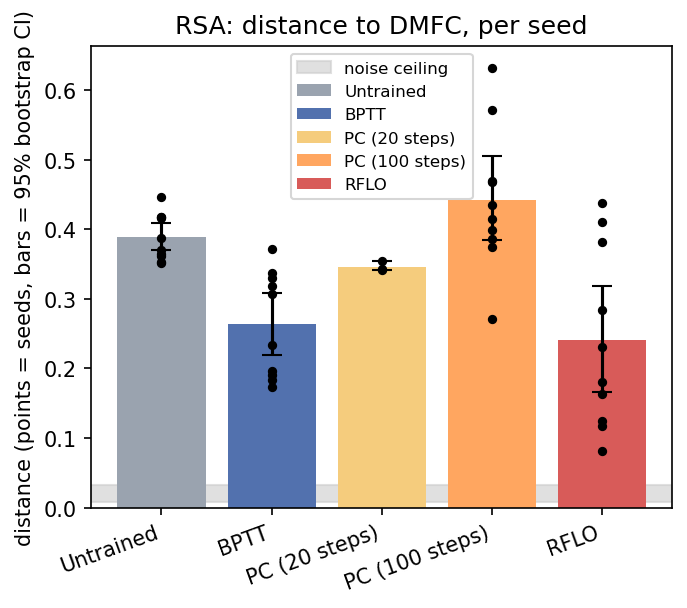
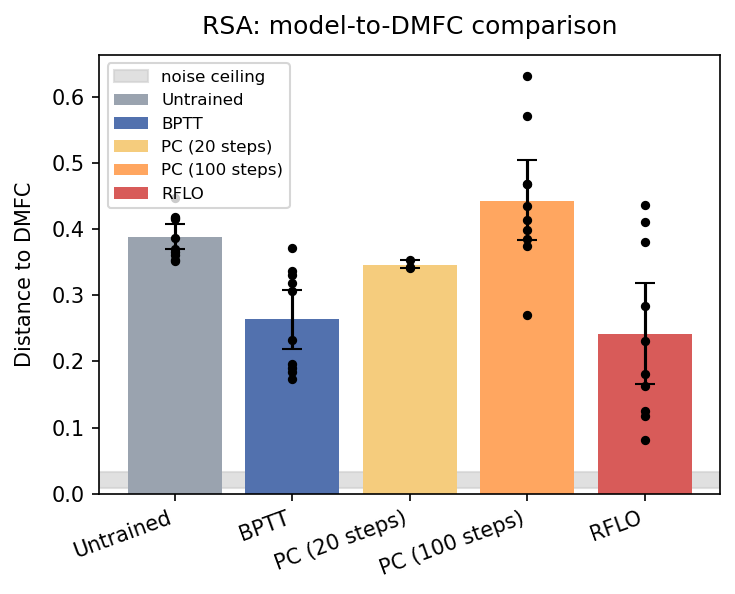
Fix headline figure title spacing

diff --git a/src/viz/figures.py b/src/viz/figures.py
@@ -92,6 +92,7 @@ def summary_distance_figure(
     title_suffix: str = "distance to DMFC",
     name: str = "summary_distance_to_dmfc",
     labels: Optional[Mapping[str, str]] = None,
+    ylabel: str = "Distance",
 ) -> Path:
     """THE headline figure: distance-to-DMFC per rule, per metric, with seed spread.
 
@@ -110,6 +111,8 @@ def summary_distance_figure(
         labels: optional ``{rule: display name}`` for the x-axis tick labels, so a
             slide can read "PC (100 steps)" instead of the raw ``pc_steps100`` key.
             Rules without an entry keep their raw key.
+        ylabel: concise y-axis title. Keep uncertainty details in the caption so
+            the rotated label cannot collide with the panel title.
 
     Draws mean +/- spread over seeds per rule, grouped by metric. This reads saved
     metrics only. Reusable as-is; tracks feed it their per-seed distance arrays.
@@ -123,7 +126,13 @@ def summary_distance_figure(
         for r in m:
             if r not in rules:
                 rules.append(r)
-    fig, axes = plt.subplots(1, len(metrics), figsize=(5 * len(metrics), 4), squeeze=False)
+    fig, axes = plt.subplots(
+        1, len(metrics), figsize=(5 * len(metrics), 4), squeeze=False,
+        layout="constrained",
+    )
+    # Give rotated category labels and the y tick labels a little more breathing
+    # room than matplotlib's default constrained-layout padding.
+    fig.get_layout_engine().set(w_pad=0.15, h_pad=0.12)
     for ax, metric in zip(axes[0], metrics):
         if ceilings and metric in ceilings:
             lo, hi = ceilings[metric]
@@ -141,8 +150,8 @@ def summary_distance_figure(
         ax.set_xticks(range(len(rules)))
         ax.set_xticklabels([labels.get(r, r) if labels else r for r in rules],
                            rotation=20, ha="right")
-        ax.set_title(f"{metric}: {title_suffix}")
-        ax.set_ylabel("distance (points = seeds, bars = 95% bootstrap CI)")
+        ax.set_title(f"{metric}: {title_suffix}", pad=10)
+        ax.set_ylabel(ylabel, labelpad=8)
         if ceilings and metric in ceilings:
             ax.legend(fontsize=8)
     return savefig(fig, name, out_dir)

diff --git a/scripts/plot_slide_figures.py b/scripts/plot_slide_figures.py
@@ -92,13 +92,13 @@ def main() -> int:
     rsa_dist = {"RSA": {arm: _seed_dict_to_list(v) for arm, v in sig["rsa_to_dmfc"].items()}}
     written.append(summary_distance_figure(
         rsa_dist, out_dir=RSA_DIR, ceilings={"RSA": tuple(sig["noise_ceiling"])},
-        title_suffix="distance to DMFC, per seed", name="summary_dmfc_comparison",
-        labels=LABELS))
+        title_suffix="model-to-DMFC comparison", name="summary_dmfc_comparison",
+        labels=LABELS, ylabel="Distance to DMFC"))
     idsa_dist = {"iDSA": {arm: _seed_dict_to_list(v) for arm, v in sig["idsa_to_dmfc"].items()}}
     written.append(summary_distance_figure(
         idsa_dist, out_dir=IDSA_DIR,
-        title_suffix="distance to DMFC, per seed (no ceiling: iDSA noise ceiling not computed)",
-        name="summary_dmfc_comparison", labels=LABELS))
+        title_suffix="model-to-DMFC comparison",
+        name="summary_dmfc_comparison", labels=LABELS, ylabel="Distance to DMFC"))
 
     print("[plot_slide_figures] wrote:")
     for p in written:

diff --git a/presentation_results.md b/presentation_results.md
@@ -90,7 +90,8 @@ just as brain-like overall. Similarity and prior coding come apart."
 
 **What it shows:** distance to DMFC per arm, one point per seed, 95% bootstrap CIs, the
 untrained control for a floor, and the neural noise-ceiling band. Arms are ordered along the
-locality axis.
+locality axis. The noise-ceiling band is available for RSA; an iDSA noise ceiling was not
+computed.
 
 **Numbers:** RSA means RFLO 0.241, BPTT 0.264, PC(20) 0.346, untrained 0.389, PC(100) 0.442.
 iDSA means BPTT 4.49, RFLO 4.76, then untrained 7.89 and both PC arms near 8.0.